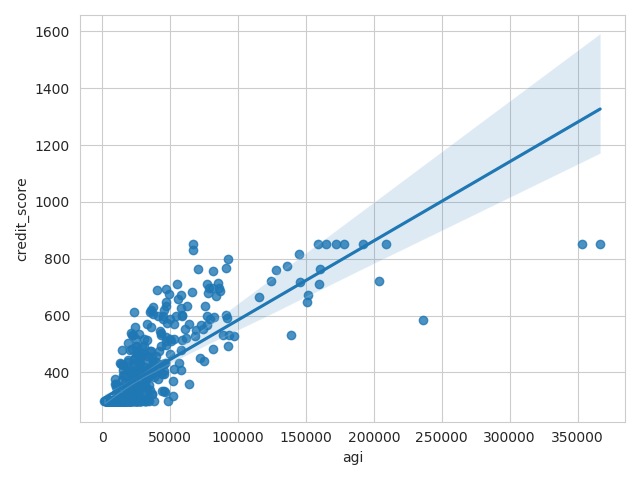
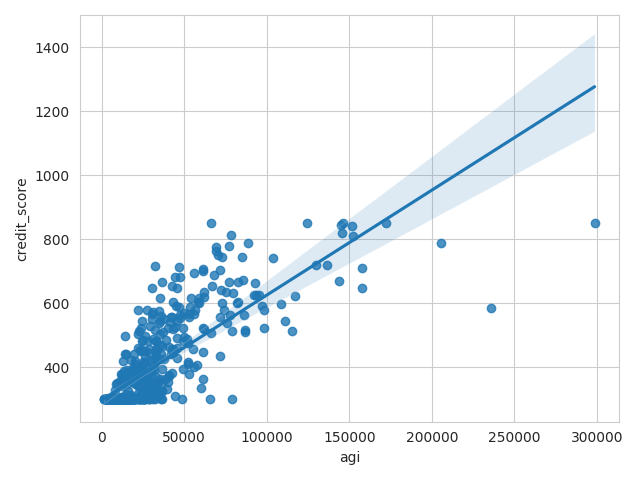
tested address data with sirad issue-2 branch

diff --git a/simulate.py b/simulate.py
@@ -38,18 +38,18 @@ def get_birth_date():
     )
 
 def simulate_addresses():
-    streets = [(fake.street_name(), fake.city(), fake.zipcode()) for _ in range(N)]
+    streets = [(fake.city(), fake.city(), fake.zipcode()) for _ in range(N)]
     with open(config.get_option("CENSUS_STREET_FILE"), "w") as f:
         print("street,zip,blkgrp", file=f)
         for street in streets:
-            print(street[0], street[2], random.randint(1, 10), sep=",", file=f)
+            if random.random() > 0.3:
+                print(street[0].upper(), street[2], random.randint(1, 10), sep=",", file=f)
     with open(config.get_option("CENSUS_STREET_NUM_FILE"), "w") as f:
         print("street_num,street,zip,blkgrp", file=f)
         for street in streets:
-            for _ in range(random.randint(1, 3)):
-                blkgrp = random.randint(1, 10)
+            if random.random() > 0.3:
                 for _ in range(random.randint(1, 20)):
-                    print(fake.building_number(), street[0], street[2], blkgrp, sep=",", file=f)
+                    print(fake.building_number(), street[0].upper(), street[2], random.randint(1, 10), sep=",", file=f)
     return streets
 
 def simulate_tax(number, streets):
@@ -73,7 +73,7 @@ def simulate_tax(number, streets):
         d['street_num'] = fake.building_number()
         d['street_name'] = street[0]
         d['city'] = street[1]
-        d['zipfull'] = street[2] + "{:04d}".format(fake.random_int(min=0, max=9999))
+        d['zipfull'] = street[2] + "-{:04d}".format(random.randint(0, 9999))
         street = streets[random.randint(0, N-1)]
         d['w2_empl_address'] = fake.building_number() + ' ' + street[0]
         d['w2_empl_city'] = street[1]

diff --git a/scatterplot.py b/scatterplot.py
@@ -2,11 +2,15 @@ import matplotlib.pyplot as plt
 import pandas as pd
 import seaborn as sns
 
-credit = pd.read_csv("build/research/Example_V1/credit_scores.txt", sep="|", index_col="sirad_id")
-del credit["record_id"]
+credit = pd.read_csv("build/research/Example_V1/credit_scores.txt",
+                     sep="|",
+                     usecols=["sirad_id", "credit_score"],
+                     index_col="sirad_id")
 
-tax = pd.read_csv("build/research/Example_V1/tax.txt", sep="|", index_col="sirad_id")
-del tax["record_id"]
+tax = pd.read_csv("build/research/Example_V1/tax.txt",
+                  sep="|",
+                  usecols=["sirad_id", "agi"],
+                  index_col="sirad_id")
 
 df = credit.join(tax, how="inner")
 
